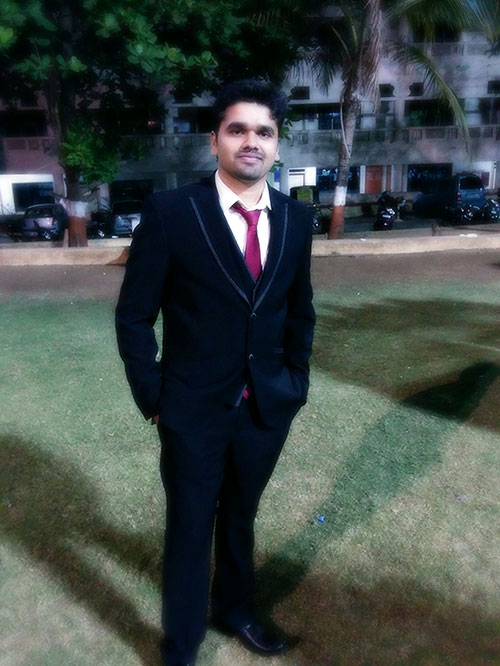
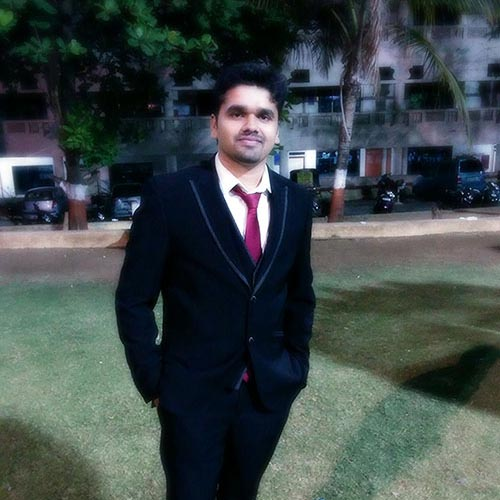
updated the top page

diff --git a/www/static/js/custom.min.js b/www/static/js/custom.min.js
@@ -1,1 +1,59 @@
-$(document).ready(function(){function e(){for(var e=0;e<$(".jumbotron").length;e++)$(".jumbotron").eq(e).height($(window).height())}function t(){$("#sidebar").addClass("active"),$("#menu-toggle").addClass("active"),$(".page-wrapper").addClass("moveRight")}function n(){$("#sidebar").removeClass("active"),$("#menu-toggle").removeClass("active"),$(".page-wrapper").removeClass("moveRight")}$(window).resize(function(){$(".top").css("height",window.innerHeight);console.log(window.innerHeight);e()});$(".top").height($(window).height()),$("a[href*=#]:not([href=#])").click(function(){if(location.pathname.replace(/^\//,"")==this.pathname.replace(/^\//,"")&&location.hostname==this.hostname){var e=$(this.hash);if(e=e.length?e:$("[name="+this.hash.slice(1)+"]"),e.length)return $("html,body").animate({scrollTop:e.offset().top},1e3),!1}}),$("#menu-toggle").click(function(e){e.preventDefault(),e.stopPropagation(),$("#sidebar").hasClass("active")?n():t()}),$(document).click(function(){$("#sidebar").hasClass("active")&&n()}),$("#sidebar a").click(function(){setTimeout(n,500)}),$(window).resize(function(){$(".top").height($(window).height()),e()}),$(window).width()>568,$.fx.interval=-2e3})
+$(document).ready(function () {
+
+    $(window).load(function(){ // On load
+        console.log("load****************************");
+        console.log(window.innerHeight);
+        console.log($(window).height());
+        console.log("load****************************");
+        $('#top').css({'height':(($(window).height()) - 100)+'px'});
+        var e = $(this.hash);
+        console.log(e);
+        console.log(e.length);
+        console.log(e.offset());
+    });
+    $(window).resize(function(){ // On resize
+        console.log("resize****************************");
+        console.log(window.innerHeight);
+        console.log($(window).height());
+        console.log("resize****************************");
+        $('#top').css({'height':(($(window).height()) - 100)+'px'});
+    });
+
+//    function e() {
+//        for (var e = 0; e < $(".jumbotron").length; e++)$(".jumbotron").eq(e).height($(window).height())
+//    }
+//
+//    function t() {
+//        $("#sidebar").addClass("active"), $("#menu-toggle").addClass("active"), $(".page-wrapper").addClass("moveRight")
+//    }
+//
+//    function n() {
+//        $("#sidebar").removeClass("active"), $("#menu-toggle").removeClass("active"), $(".page-wrapper").removeClass("moveRight")
+//    }
+
+//    $(window).resize(function () {
+//        $(".top").css("height", window.innerHeight);
+//        console.log("****************************");
+//        console.log(window.innerHeight);
+//        console.log($(window).height());
+//        console.log("****************************");
+//        e();
+//    });
+//    $(".top").height($(window).height()),
+
+    $("a[href*=#]:not([href=#])").click(function () {
+        if (location.pathname.replace(/^\//, "") == this.pathname.replace(/^\//, "") && location.hostname == this.hostname) {
+            var e = $(this.hash);
+            if (e = e.length ? e : $("[name=" + this.hash.slice(1) + "]"), e.length)return $("html,body").animate({scrollTop: e.offset().top}, 1e3), !1
+        }
+    });
+//        , $("#menu-toggle").click(function (e) {
+//        e.preventDefault(), e.stopPropagation(), $("#sidebar").hasClass("active") ? n() : t()
+//    }), $(document).click(function () {
+//        $("#sidebar").hasClass("active") && n()
+//    }), $("#sidebar a").click(function () {
+//        setTimeout(n, 500)
+//    }), $(window).resize(function () {
+//        $(".top").height($(window).height()), e()
+//    }), $(window).width() > 568, $.fx.interval = -2e3
+})

diff --git a/www/index.html b/www/index.html
@@ -74,11 +74,12 @@
         </svg>
     </div>
 </nav>
-<div class="page-wrapper" id="main_content" style="margin-top: 35px;">
+<div class="page-wrapper" id="main_content" >
 <div id="top" class="jumbotron" style="padding-top: 3%">
     <div class="top">
-        <div style="height: 250px; width: 250px; position: absolute;left: 50%; background-color: rgb(255, 255, 255); background-image: url('me.jpg'); background-size: cover; background-repeat: no-repeat; border-radius: 185px; border-color: rgb(255, 255, 255); border-width: 1px; border-style: solid; margin-left: -125px;"></div>
-        <div style="top: 280px; position: relative;">
+        <!--<div style="height: 250px; width: 250px; position: absolute;left: 50%; background-color: rgb(255, 255, 255); background-image: url('me.jpg'); background-size: cover; background-repeat: no-repeat; border-radius: 185px; border-color: rgb(255, 255, 255); border-width: 1px; border-style: solid; margin-left: -125px;"></div>-->
+        <img src="me.jpg" id="circle">
+        <div >
             <h1>Sachin Shinde</h1>
 
             <ul class="contact">
@@ -487,11 +488,6 @@
             this.navBtnElProjects = this.el.querySelector('div.menu__inner').querySelector('ul.ul__nav').querySelector('li.nav-btn-projects').querySelector('a.a-nav-btn');
             this.navBtnElAbout = this.el.querySelector('div.menu__inner').querySelector('ul.ul__nav').querySelector('li.nav-btn-about').querySelector('a.a-nav-btn');
             this.navBtnElResume = this.el.querySelector('div.menu__inner').querySelector('ul.ul__nav').querySelector('li.nav-btn-resume').querySelector('a.a-nav-btn');
-            console.log(this.navBtnElAbout);
-            console.log(this.navBtnElProjects);
-            console.log(this.navBtnElResume);
-            console.log(this.navBtnElTop);
-            console.log(this.navBtnElWork);
 
             var s = Snap(this.shapeEl.querySelector('svg'));
             this.pathEl = s.select('path');

diff --git a/www/static/app.css b/www/static/app.css
@@ -60,7 +60,7 @@ a, a span {
 
 .top {
     text-align: center;
-    vertical-align: top;
+    vertical-align: middle;
     display: table-cell;
     float: none;
     padding-left: 1em;
@@ -815,4 +815,13 @@ small.text {
     -ms-transform:skew(8deg) rotate(3deg);
     -o-transform:skew(8deg) rotate(3deg);
     transform:skew(8deg) rotate(3deg);
+}
+
+#circle{
+    border-radius:50% 50% 50% 50%;
+    width:250px;
+    height:250px;
+    border: 2px solid rgb(255, 255, 255);
+    margin-top: 5%;
+    margin-bottom: 5%;
 }
